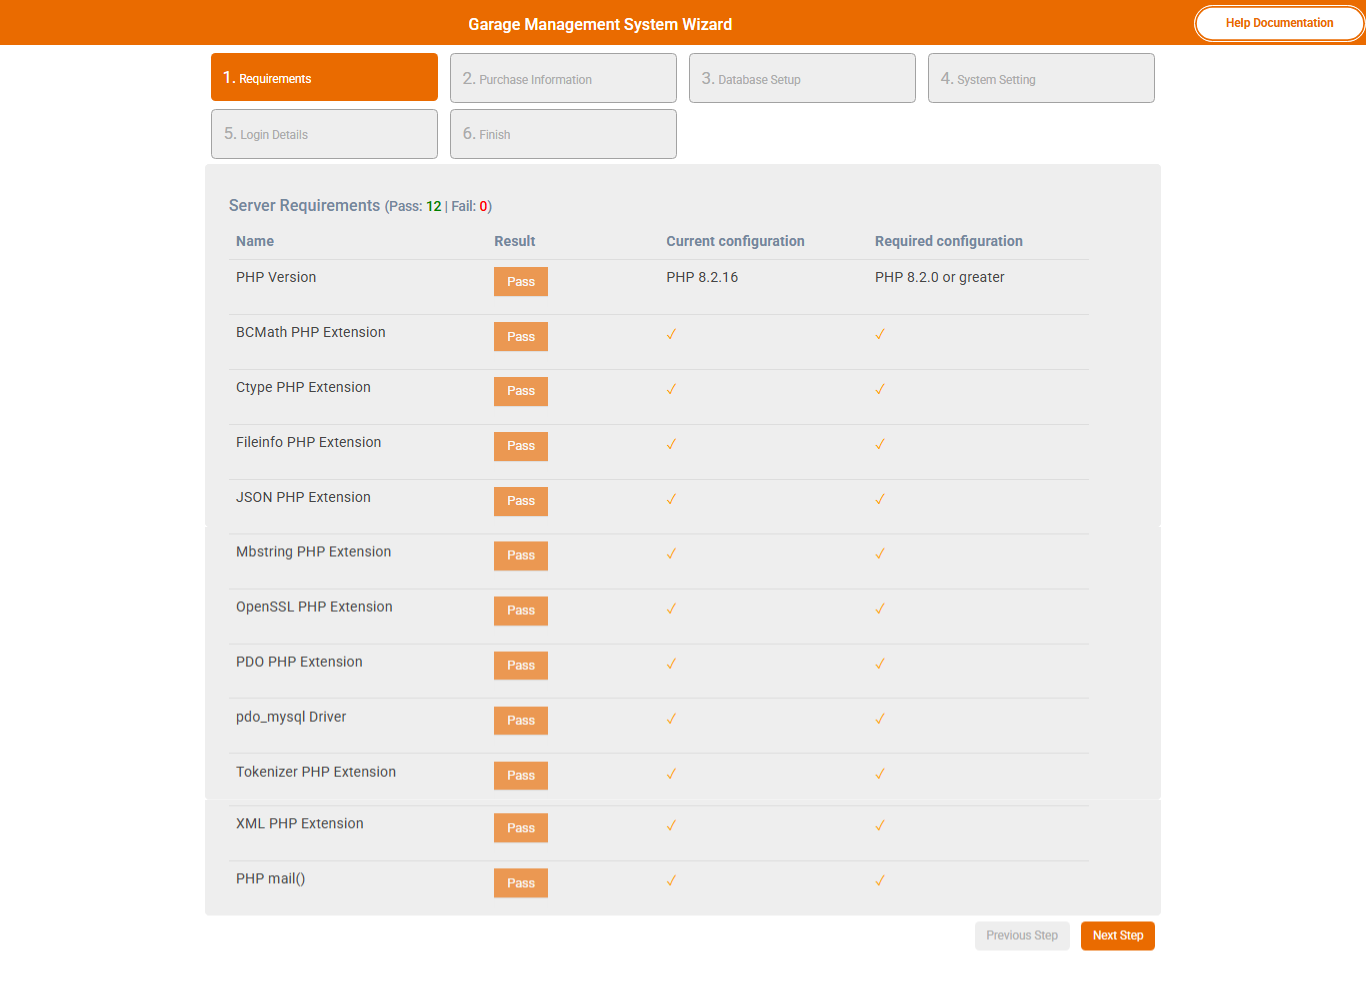
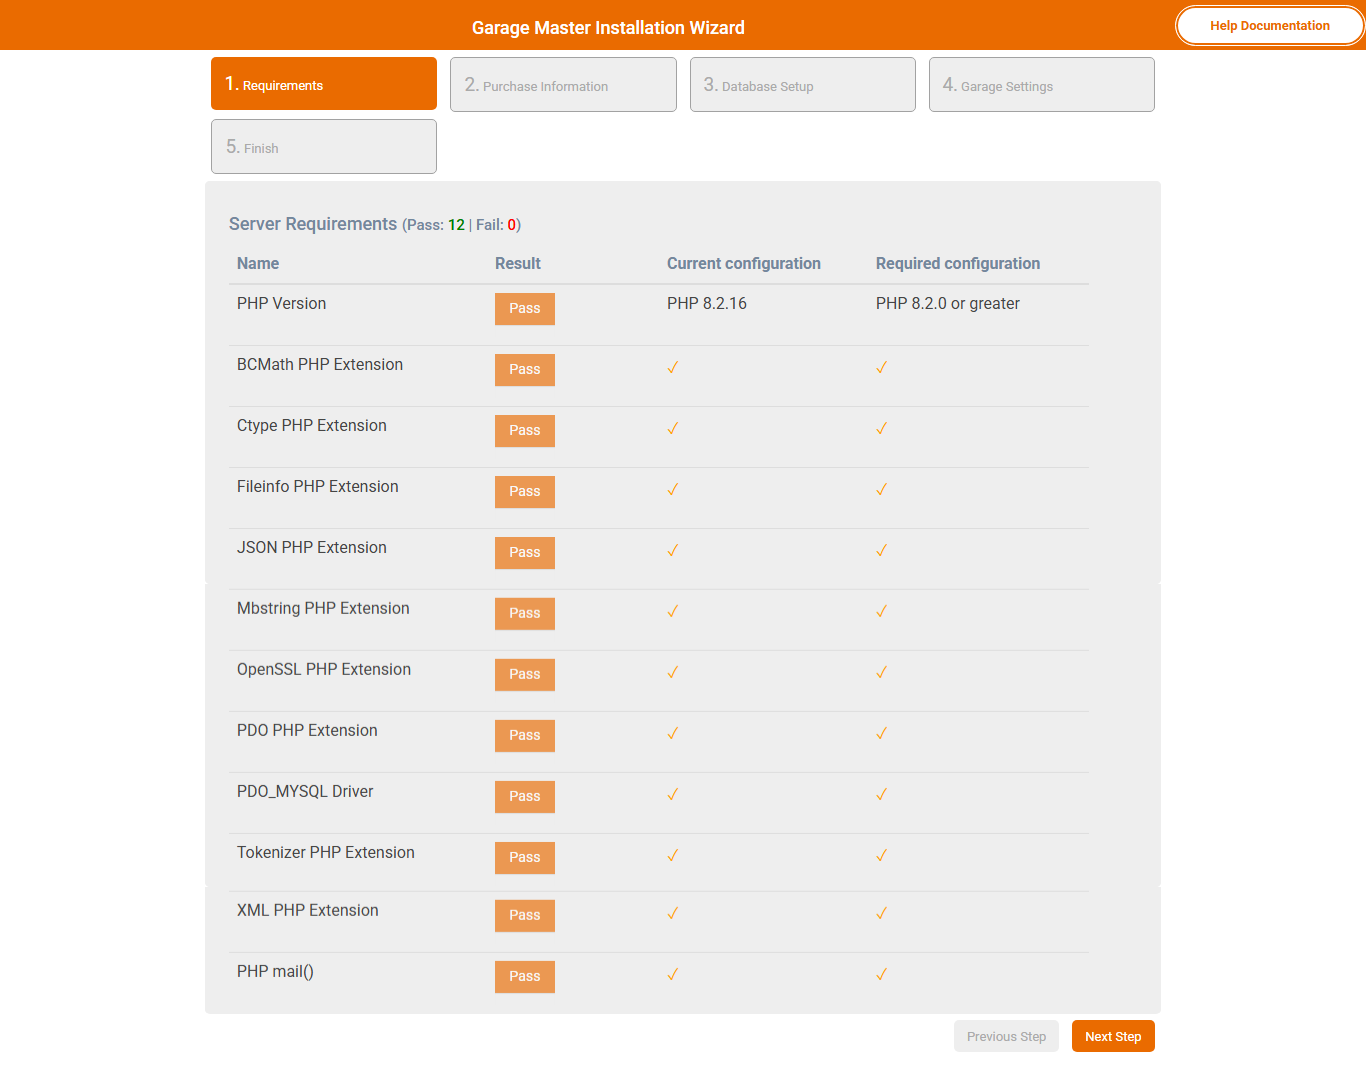
update installation wizard steps

diff --git a/index.html b/index.html
@@ -582,13 +582,18 @@
 													<img src="images/Installer/Installer1.png" /><br><br>
 
 													<ol>
-														<li><strong>Servername : </strong>Enter your servername name.
+														<li><strong>Domain name : </strong>Your Domain name.
 														</li>
 														<li><strong>Purchase Key : </strong>Enter your purchase key.
 														</li>
 														<li><strong>E-mail : </strong>Enter your purchasekey time email.
 														</li>
+														<li><strong>Terms and Conditions : </strong>Please read and accept the Terms and Conditions to continue with the License Agreement provided by Dasinfomedia.</li>
+														<li><strong>Accepted By:</strong>  Name of the person accepting the Terms and Conditions.</li>
+
 													</ol>
+													<br><br>
+													<img src="images/Installer/Installer-terms.png" />
 
 													<h4>3)Database setup</h4><br />
 													<img src="images/Installer/Installer3.png" /><br><br>
@@ -617,27 +622,20 @@
 													in
 													control panel.</span><br><br>
 
-													<h4>4)System Setting</h4><br />
+													<h4>4)Garage Setting</h4><br />
 													<img src="images/Installer/Installer4.png" /><br><br>
 
 													<ol>
-														<li><strong>System Name :</strong>Enter a new system name.</li>
-														<li><strong>Email :</strong>Enter a new email.</li>
+														<li><strong>Garage Name :</strong>Enter a new name of This system.</li>
+														<li><strong>Admin First Name :</strong>Enter a new first name.</li>
+														<li><strong>Admin Last Name :</strong>Enter a new last name.</li>
+														<li><strong>Admin Email :</strong>Enter a new admin login email.</li>
+														<li><strong>Admin Password :</strong>Enter a new admin login password.</li>
+														<li><strong>Confirm Password :</strong>Enter a new admin confirm password.</li>
 														<li><strong>Address :</strong>Enter a new address.</li>
-														<li><strong>First Name :</strong>Enter a new first name.</li>
-														<li><strong>Last Name :</strong>Enter a new last name.</li>
 													</ol><br><br>
 
-													<h4>5)Login Details</h4><br />
-													<img src="images/Installer/Installer5.png" /><br><br>
-													<ol>
-														<li><strong>Username :</strong>Enter a new admin username.</li>
-														<li><strong>Password :</strong>Enter a new admin password.</li>
-														<li><strong>Confirm Password :</strong>Enter a new admin confirm
-															password.</li>
-													</ol><br><br>
-
-													<h4>6)Finish</h4><br />
+													<h4>5)Finish</h4><br />
 													<img src="images/Installer/Installer6.png" /><br><br>
 													<ul>
 														<li>Read the notes and click on install now.</li><br /><br />
